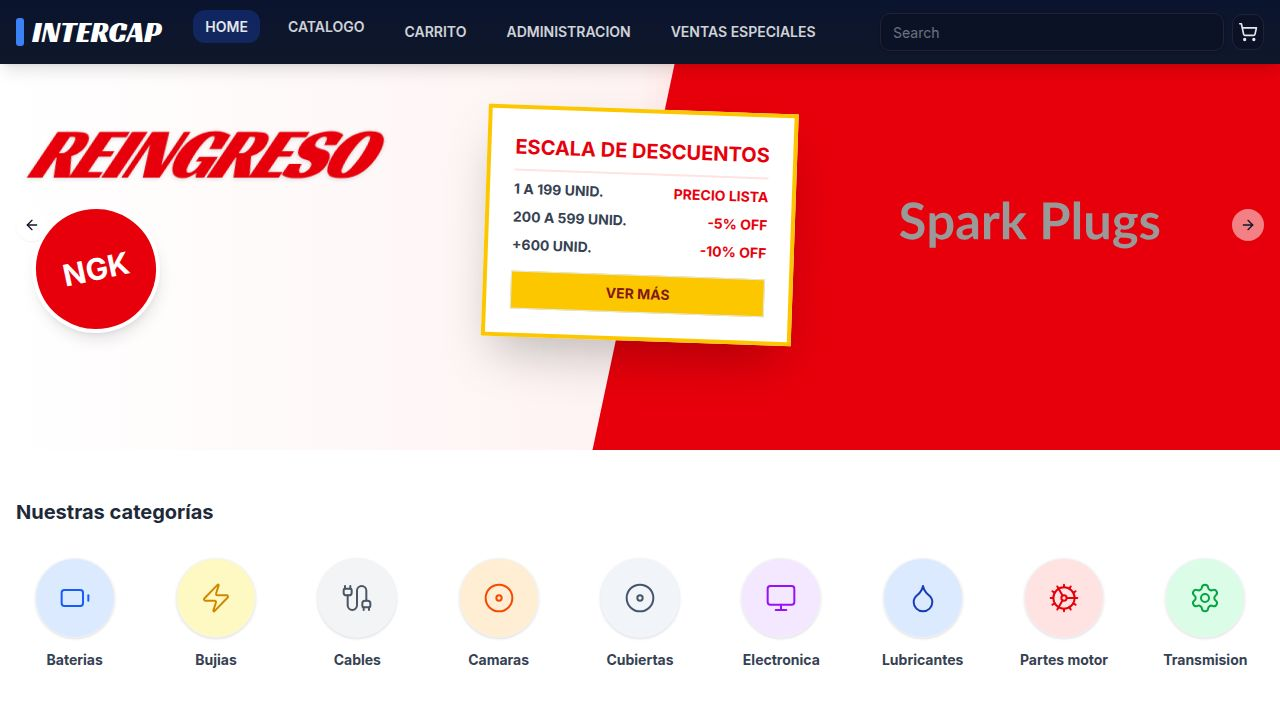
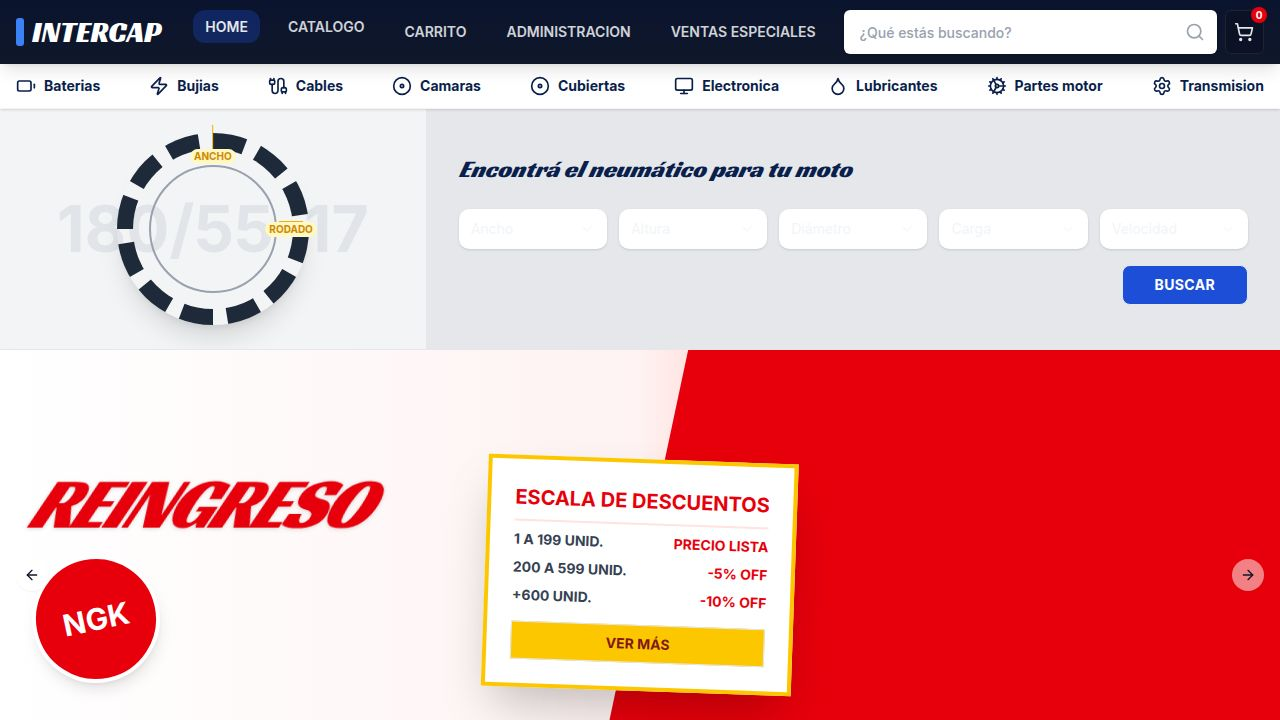
Update homepage layout with new search bar, categories, and tire finder
Enhances homepage by implementing a larger white search bar, a horizontal categories strip below the header, and a dedicated tire finder section with filtering options.

Replit-Commit-Author: Agent
Replit-Commit-Session-Id: 91bd3f06-56c1-4e7f-927c-b28fa547b959
Replit-Commit-Checkpoint-Type: full_checkpoint
Replit-Commit-Event-Id: c4399801-5163-48e7-a38a-cc3a402f2b7f
Replit-Commit-Screenshot-Url: https://storage.googleapis.com/screenshot-production-us-central1/3ee23645-13da-4abf-b188-79f82d98e417/91bd3f06-56c1-4e7f-927c-b28fa547b959/nszHpqT
Replit-Helium-Checkpoint-Created: true

diff --git a/client/src/components/home/TireFinder.tsx b/client/src/components/home/TireFinder.tsx
@@ -1,0 +1,168 @@
+import { useState, useMemo } from "react";
+import { PRODUCTS } from "@/lib/products";
+import { Button } from "@/components/ui/button";
+import { Select, SelectContent, SelectItem, SelectTrigger, SelectValue } from "@/components/ui/select";
+import { Search } from "lucide-react";
+import { useLocation } from "wouter";
+
+export function TireFinder() {
+  const [, setLocation] = useLocation();
+  const [filters, setFilters] = useState({
+    width: "",
+    ratio: "",
+    rim: "",
+    load: "",
+    speed: ""
+  });
+
+  // Extract all unique values from products
+  const options = useMemo(() => {
+    const widths = new Set<string>();
+    const ratios = new Set<string>();
+    const rims = new Set<string>();
+    const loads = new Set<string>();
+    const speeds = new Set<string>();
+
+    PRODUCTS.forEach(p => {
+      // Basic dimensions
+      if (p.width) widths.add(p.width.toString());
+      if (p.ratio) ratios.add(p.ratio.toString());
+      if (p.rim) rims.add(p.rim.toString());
+
+      // Extract Load and Speed from Title
+      // Common patterns: "52H", "58W", "(58W)", "62M"
+      // Regex: look for 2-3 digits followed by 1-2 letters, possibly wrapped in parens
+      const loadSpeedMatch = p.title.match(/[\s(](\d{2,3})([A-Z]+)[)\s]/);
+      if (loadSpeedMatch) {
+        loads.add(loadSpeedMatch[1]);
+        speeds.add(loadSpeedMatch[2]);
+      }
+    });
+
+    return {
+      widths: Array.from(widths).sort((a, b) => parseFloat(a) - parseFloat(b)),
+      ratios: Array.from(ratios).sort((a, b) => parseFloat(a) - parseFloat(b)),
+      rims: Array.from(rims).sort((a, b) => parseFloat(a) - parseFloat(b)),
+      loads: Array.from(loads).sort((a, b) => parseInt(a) - parseInt(b)),
+      speeds: Array.from(speeds).sort()
+    };
+  }, []);
+
+  const handleSearch = () => {
+    // Navigate to catalog with query params (mock implementation)
+    // In a real app, we'd construct the URL query string
+    console.log("Searching with:", filters);
+    setLocation('/catalogo');
+  };
+
+  return (
+    <div className="bg-white border-b border-gray-200">
+      <div className="container mx-auto">
+        <div className="flex flex-col md:flex-row">
+          
+          {/* Left: Visual Guide */}
+          <div className="w-full md:w-1/3 bg-gray-100 relative overflow-hidden flex items-center justify-center p-6 border-r border-gray-200">
+            <div className="relative z-10 text-center">
+              <div className="text-[4rem] font-bold text-gray-300 leading-none select-none absolute top-1/2 left-1/2 transform -translate-x-1/2 -translate-y-1/2 whitespace-nowrap opacity-50">
+                180/55-17
+              </div>
+              <div className="relative">
+                 {/* CSS Tire Representation */}
+                 <div className="w-48 h-48 rounded-full border-[16px] border-gray-800 border-dashed mx-auto relative flex items-center justify-center shadow-xl">
+                    <div className="w-32 h-32 rounded-full border-[2px] border-gray-400"></div>
+                    {/* Indicators */}
+                    <div className="absolute top-0 left-1/2 -translate-x-1/2 -translate-y-6 flex flex-col items-center">
+                       <span className="h-6 w-px bg-yellow-500"></span>
+                       <span className="text-[10px] font-bold text-yellow-600 uppercase bg-yellow-100 px-1 rounded">Ancho</span>
+                    </div>
+                    <div className="absolute right-0 top-1/2 translate-x-6 -translate-y-1/2 flex flex-col items-center">
+                       <span className="w-6 h-px bg-yellow-500"></span>
+                       <span className="text-[10px] font-bold text-yellow-600 uppercase bg-yellow-100 px-1 rounded">Rodado</span>
+                    </div>
+                 </div>
+              </div>
+            </div>
+          </div>
+
+          {/* Right: Search Form */}
+          <div className="w-full md:w-2/3 bg-gray-200 p-8 flex flex-col justify-center">
+            <h2 className="text-2xl font-display italic text-brand-blue-900 mb-6 flex items-center gap-2">
+              Encontrá el neumático para tu moto
+            </h2>
+
+            <div className="grid grid-cols-2 md:grid-cols-5 gap-3">
+              {/* Width */}
+              <div className="space-y-1">
+                <Select onValueChange={(v) => setFilters({...filters, width: v})}>
+                  <SelectTrigger className="bg-white border-none h-10 text-gray-600">
+                    <SelectValue placeholder="Ancho" />
+                  </SelectTrigger>
+                  <SelectContent>
+                    {options.widths.map(w => <SelectItem key={w} value={w}>{w}</SelectItem>)}
+                  </SelectContent>
+                </Select>
+              </div>
+
+              {/* Ratio */}
+              <div className="space-y-1">
+                <Select onValueChange={(v) => setFilters({...filters, ratio: v})}>
+                  <SelectTrigger className="bg-white border-none h-10 text-gray-600">
+                    <SelectValue placeholder="Altura" />
+                  </SelectTrigger>
+                  <SelectContent>
+                    {options.ratios.map(r => <SelectItem key={r} value={r}>{r}</SelectItem>)}
+                  </SelectContent>
+                </Select>
+              </div>
+
+              {/* Rim */}
+              <div className="space-y-1">
+                <Select onValueChange={(v) => setFilters({...filters, rim: v})}>
+                  <SelectTrigger className="bg-white border-none h-10 text-gray-600">
+                    <SelectValue placeholder="Diámetro" />
+                  </SelectTrigger>
+                  <SelectContent>
+                    {options.rims.map(r => <SelectItem key={r} value={r}>{r}"</SelectItem>)}
+                  </SelectContent>
+                </Select>
+              </div>
+
+              {/* Load */}
+              <div className="space-y-1">
+                <Select onValueChange={(v) => setFilters({...filters, load: v})}>
+                  <SelectTrigger className="bg-white border-none h-10 text-gray-600">
+                    <SelectValue placeholder="Carga" />
+                  </SelectTrigger>
+                  <SelectContent>
+                    {options.loads.map(l => <SelectItem key={l} value={l}>{l}</SelectItem>)}
+                  </SelectContent>
+                </Select>
+              </div>
+
+              {/* Speed */}
+              <div className="space-y-1">
+                <Select onValueChange={(v) => setFilters({...filters, speed: v})}>
+                  <SelectTrigger className="bg-white border-none h-10 text-gray-600">
+                    <SelectValue placeholder="Velocidad" />
+                  </SelectTrigger>
+                  <SelectContent>
+                    {options.speeds.map(s => <SelectItem key={s} value={s}>{s}</SelectItem>)}
+                  </SelectContent>
+                </Select>
+              </div>
+            </div>
+
+            <div className="flex justify-end mt-4">
+               <Button 
+                 onClick={handleSearch}
+                 className="bg-brand-blue-700 hover:bg-brand-blue-800 text-white font-bold px-8 rounded h-10 uppercase tracking-wide"
+               >
+                 BUSCAR
+               </Button>
+            </div>
+          </div>
+        </div>
+      </div>
+    </div>
+  );
+}

diff --git a/client/src/pages/home.tsx b/client/src/pages/home.tsx
@@ -1,11 +1,9 @@
 import { Header } from "@/components/layout/Header";
 import { Footer } from "@/components/layout/Footer";
 import { PRODUCTS } from "@/lib/products";
-import { ProductCard } from "@/components/product/ProductCard";
 import { Button } from "@/components/ui/button";
 import { Input } from "@/components/ui/input";
-import { ChevronRight, ChevronLeft, Battery, Zap, Cable, Disc, Monitor, Droplet, Cog, Settings } from "lucide-react";
-import { Link } from "wouter";
+import { ChevronRight, ChevronLeft } from "lucide-react";
 import {
   Carousel,
   CarouselContent,
@@ -14,28 +12,25 @@ import {
   CarouselPrevious,
 } from "@/components/ui/carousel";
 import Autoplay from "embla-carousel-autoplay";
+import { CategoriesStrip } from "@/components/home/CategoriesStrip";
+import { TireFinder } from "@/components/home/TireFinder";
 
 export default function Home() {
   // Filter products for "Oferta" section
   const offerProducts = PRODUCTS.slice(0, 5);
 
-  const categories = [
-    { name: "Baterias", icon: Battery, color: "bg-blue-100 text-blue-600" },
-    { name: "Bujias", icon: Zap, color: "bg-yellow-100 text-yellow-600" },
-    { name: "Cables", icon: Cable, color: "bg-gray-100 text-gray-600" },
-    { name: "Camaras", icon: Disc, color: "bg-orange-100 text-orange-600" },
-    { name: "Cubiertas", icon: Disc, color: "bg-slate-100 text-slate-600" },
-    { name: "Electronica", icon: Monitor, color: "bg-purple-100 text-purple-600" },
-    { name: "Lubricantes", icon: Droplet, color: "bg-blue-100 text-blue-800" },
-    { name: "Partes motor", icon: Cog, color: "bg-red-100 text-red-600" },
-    { name: "Transmision", icon: Settings, color: "bg-green-100 text-green-600" },
-  ];
-
   return (
-    <div className="min-h-screen bg-white flex flex-col font-sans">
+    <div className="min-h-screen bg-white flex flex-col font-sans pt-16">
       <Header />
       
       <main className="flex-1">
+        
+        {/* Categories Strip */}
+        <CategoriesStrip />
+
+        {/* Tire Finder */}
+        <TireFinder />
+
         {/* Main Slider */}
         <section className="relative overflow-hidden bg-gray-100">
           <Carousel 
@@ -102,25 +97,7 @@ export default function Home() {
           </Carousel>
         </section>
 
-        {/* Categories Section */}
-        <section className="py-12 container mx-auto px-4">
-          <h3 className="text-xl font-bold text-gray-800 mb-8">Nuestras categorías</h3>
-          
-          <div className="grid grid-cols-3 md:grid-cols-5 lg:grid-cols-9 gap-6">
-            {categories.map((cat, idx) => (
-              <Link key={idx} href="/catalogo">
-                <a className="flex flex-col items-center gap-3 group cursor-pointer">
-                  <div className={`w-16 h-16 md:w-20 md:h-20 rounded-full flex items-center justify-center ${cat.color} bg-opacity-20 group-hover:scale-110 transition-transform duration-300 shadow-sm border border-gray-100`}>
-                    <cat.icon className="w-8 h-8" strokeWidth={1.5} />
-                  </div>
-                  <span className="text-xs md:text-sm font-bold text-gray-700 text-center group-hover:text-intercap-purple transition-colors">
-                    {cat.name}
-                  </span>
-                </a>
-              </Link>
-            ))}
-          </div>
-        </section>
+        {/* Categories Section - REMOVED */}
 
         {/* Promo Banners - Side by Side */}
         <section className="py-8 container mx-auto px-4">

diff --git a/client/src/components/layout/Header.tsx b/client/src/components/layout/Header.tsx
@@ -31,17 +31,19 @@ export function Header() {
           </nav>
 
           {/* Search Bar */}
-          <div className="flex-1 max-w-sm w-full ml-auto flex items-center gap-2">
+          <div className="flex-1 max-w-lg w-full ml-auto flex items-center gap-2">
             <div className="relative w-full hidden md:block">
               <Input 
                 type="search" 
-                placeholder="Search" 
-                className="h-[38px] rounded-[10px] bg-[#0b1226] text-gray-200 border-[#223] px-3 placeholder:text-gray-500 w-full focus-visible:ring-1 focus-visible:ring-brand-blue-600"
+                placeholder="¿Qué estás buscando?" 
+                className="h-[44px] rounded-[6px] bg-white text-gray-800 border-none px-4 placeholder:text-gray-400 w-full focus-visible:ring-2 focus-visible:ring-brand-blue-500 shadow-sm font-medium"
               />
+              <Search className="absolute right-3 top-1/2 -translate-y-1/2 text-gray-400 w-5 h-5" />
             </div>
             
-            <button className="flex items-center justify-center w-[36px] h-[36px] rounded-[10px] bg-[#0b1226] text-gray-200 border border-[#223] hover:border-brand-blue-600 transition-colors">
+            <button className="flex items-center justify-center w-[44px] h-[44px] rounded-[6px] bg-[#0b1226] text-gray-200 border border-[#223] hover:border-brand-blue-600 transition-colors relative">
               <ShoppingCart className="w-5 h-5" />
+              <div className="absolute -top-1 -right-1 w-4 h-4 bg-red-600 rounded-full text-[10px] font-bold flex items-center justify-center text-white">0</div>
             </button>
           </div>
 

diff --git a/client/src/components/home/CategoriesStrip.tsx b/client/src/components/home/CategoriesStrip.tsx
@@ -1,0 +1,35 @@
+import { Link } from "wouter";
+import { Battery, Zap, Cable, Disc, Monitor, Droplet, Cog, Settings, Activity } from "lucide-react";
+
+export function CategoriesStrip() {
+  const categories = [
+    { name: "Baterias", icon: Battery },
+    { name: "Bujias", icon: Zap },
+    { name: "Cables", icon: Cable },
+    { name: "Camaras", icon: Disc },
+    { name: "Cubiertas", icon: Disc },
+    { name: "Electronica", icon: Monitor },
+    { name: "Lubricantes", icon: Droplet },
+    { name: "Partes motor", icon: Cog },
+    { name: "Transmision", icon: Settings },
+  ];
+
+  return (
+    <div className="bg-white border-b border-gray-100 py-3 shadow-sm relative z-10">
+      <div className="container mx-auto px-4">
+        <div className="flex justify-between items-center overflow-x-auto no-scrollbar gap-8 min-w-full">
+          {categories.map((cat, idx) => (
+            <Link key={idx} href="/catalogo">
+              <a className="flex items-center gap-2 group cursor-pointer whitespace-nowrap">
+                <cat.icon className="w-5 h-5 text-brand-blue-900" strokeWidth={2} />
+                <span className="text-sm font-bold text-brand-blue-900 group-hover:text-brand-blue-600 transition-colors">
+                  {cat.name}
+                </span>
+              </a>
+            </Link>
+          ))}
+        </div>
+      </div>
+    </div>
+  );
+}
